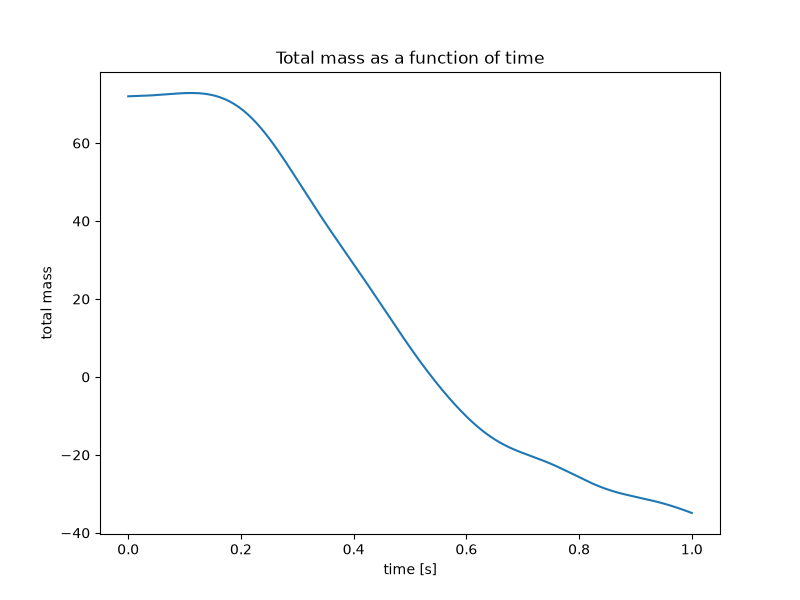
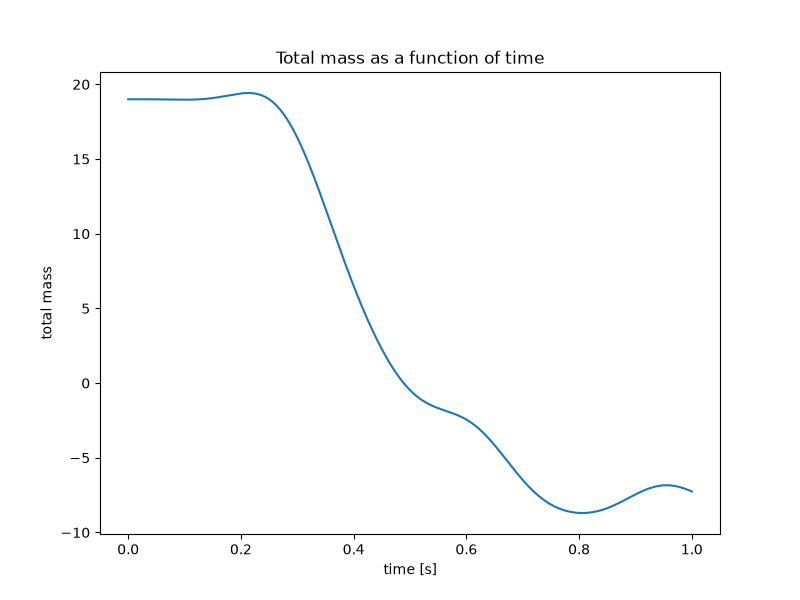
all plots are done

diff --git a/simulate_init_A.py b/simulate_init_A.py
@@ -78,7 +78,7 @@ from mpl_toolkits.mplot3d import Axes3D  # noqa: F401
 
 one = np.ones(p.shape[1])
 
-max_time = 1 # seconds
+max_time = 0.2 # seconds
 r0 = 0.25
 x0 = 0.3
 y0 = 0
@@ -132,7 +132,7 @@ ax.set_zlabel("U")
 ax.set_title(f"Solution after {max_time} seconds, k={k}")
 fig.colorbar(surf, shrink=0.6)
 
-fig.savefig(f"plots_A/sol-plot_{len(p[1])}")
+fig.savefig(f"plots_A/sol-plot_{len(p[1])}_stable")
 
 fig1, ax1 = plt.subplots(figsize=(8, 6))
 ax1.plot(np.linspace(0, 1, n_iterations), total_mass, label="total mass")
@@ -140,7 +140,7 @@ ax1.set_xlabel("time [s]")
 ax1.set_ylabel("total mass")
 ax1.set_title("Total mass as a function of time")
 
-fig1.savefig(f"plots_A/mass-plot_{len(p[1])}")
+fig1.savefig(f"plots_A/mass-plot_{len(p[1])}_stable")
 
 
 

diff --git a/simulate_init_B.py b/simulate_init_B.py
@@ -78,7 +78,7 @@ from mpl_toolkits.mplot3d import Axes3D  # noqa: F401
 
 one = np.ones(p.shape[1])
 
-max_time = 1 # seconds
+max_time = 0.2 # seconds
 r0 = 0.25
 x0 = 0.3
 y0 = 0
@@ -132,7 +132,7 @@ ax.set_zlabel("U")
 ax.set_title(f"Solution after {max_time} seconds, k={k}")
 fig.colorbar(surf, shrink=0.6)
 
-fig.savefig(f"plots_B/sol-plot_{len(p[1])}")
+fig.savefig(f"plots_B/sol-plot_{len(p[1])}_stable")
 
 fig1, ax1 = plt.subplots(figsize=(8, 6))
 ax1.plot(np.linspace(0, 1, n_iterations), total_mass, label="total mass")
@@ -140,7 +140,7 @@ ax1.set_xlabel("time [s]")
 ax1.set_ylabel("total mass")
 ax1.set_title("Total mass as a function of time")
 
-fig1.savefig(f"plots_B/mass-plot_{len(p[1])}")
+fig1.savefig(f"plots_B/mass-plot_{len(p[1])}_stable")
 
 
 

diff --git a/simulate_init_A_stabilized.py b/simulate_init_A_stabilized.py
@@ -132,7 +132,7 @@ ax.set_zlabel("U")
 ax.set_title(f"Solution after {max_time} seconds, k={k}")
 fig.colorbar(surf, shrink=0.6)
 
-fig.savefig(f"plots_AS/sol-plot_{len(p[1])}")
+fig.savefig(f"plots_As/sol-plot_{len(p[1])}")
 
 fig1, ax1 = plt.subplots(figsize=(8, 6))
 ax1.plot(np.linspace(0, 1, n_iterations), total_mass, label="total mass")
@@ -140,7 +140,7 @@ ax1.set_xlabel("time [s]")
 ax1.set_ylabel("total mass")
 ax1.set_title("Total mass as a function of time")
 
-fig1.savefig(f"plots_AS/mass-plot_{len(p[1])}")
+fig1.savefig(f"plots_As/mass-plot_{len(p[1])}")
 
 
 

diff --git a/simulate_init_B_stabilized.py b/simulate_init_B_stabilized.py
@@ -132,7 +132,7 @@ ax.set_zlabel("U")
 ax.set_title(f"Solution after {max_time} seconds, k={k}")
 fig.colorbar(surf, shrink=0.6)
 
-fig.savefig(f"plots_AS/sol-plot_{len(p[1])}")
+fig.savefig(f"plots_Bs/sol-plot_{len(p[1])}")
 
 fig1, ax1 = plt.subplots(figsize=(8, 6))
 ax1.plot(np.linspace(0, 1, n_iterations), total_mass, label="total mass")
@@ -140,7 +140,7 @@ ax1.set_xlabel("time [s]")
 ax1.set_ylabel("total mass")
 ax1.set_title("Total mass as a function of time")
 
-fig1.savefig(f"plots_AS/mass-plot_{len(p[1])}")
+fig1.savefig(f"plots_Bs/mass-plot_{len(p[1])}")
 
 
 

diff --git a/ploterrors.py b/ploterrors.py
@@ -1,9 +1,9 @@
 import matplotlib.pyplot as plt
 
 errorsA = [0.348, 0.345, 0.342, 0.340]
-errorsB = []
-errorsAS = []
-errorsBS = []
+errorsB = [0.433, 0.422, 0.417, 0.422]
+errorsAS = [0.000215, 0.000972, 0.00175, 0.00242]
+errorsBS = [0.000167, 0.000764, 0.00157, 0.00205]
 mesh_size = [0.05, 0.08, 0.10, 0.12]
 
 
